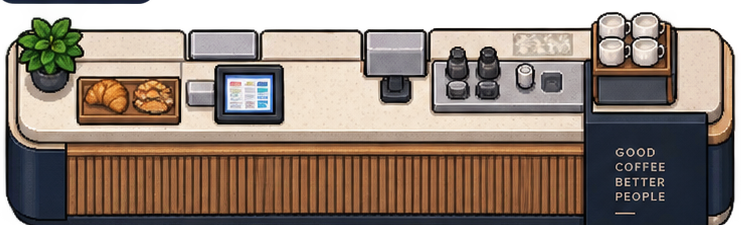
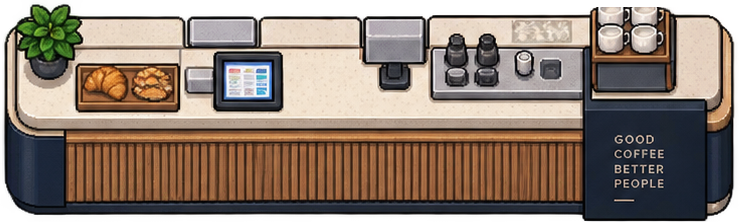
fix: remove first-floor v4 crop artifacts

diff --git a/.superpowers/sdd/2026-09-14-first-floor-asset-layout/task-2-report.md b/.superpowers/sdd/2026-09-14-first-floor-asset-layout/task-2-report.md
@@ -40,3 +40,36 @@ final hash is included in the task handoff).
 The v4 sprites are registered and ready for use, but no first-floor scene or
 placement code was changed by scope; a subsequent task must choose scale,
 anchor, and placement for these sprites.
+
+## Fix round 1: source-label crop cleanup
+
+### Root cause and correction
+
+The confirmed fragments were detached remnants of the category labels in the
+original source sheets. The elevator crop included the lower edge of the
+elevator label, the counter crop included the lower edge of its category label,
+and the entrance planter crop included both its category label and the label
+below the pot.
+
+The three PNGs were regenerated non-destructively from the original sheets
+with tighter bounds. The elevator's intended call indicator and the counter's
+plant top were composited back from their adjacent source pixels, so the
+cleanup does not discard intended artwork. The planter is limited to its plant
+and pot. Manifest paths, source sheets, dimensions used by layout code, and
+all scene code remain unchanged.
+
+### Visual and test verification
+
+- Directly inspected the three corrected PNGs at native resolution.
+- Regenerated the Task 3 renderer-level composition at
+  `build/first_floor_cleanup_composition.png` using
+  `FIRST_FLOOR_PREVIEW`; it shows the repaired elevators, cafe counter, and
+  planter instances without the reported label fragments.
+- Ran
+  `flutter_tools.dart test test/iso_lobby_scene_test.dart test/first_floor_asset_manifest_test.dart --no-pub --reporter expanded`.
+  Result: `00:00 +5: All tests passed!`
+
+### Commit
+
+`fix: remove first-floor v4 crop artifacts` (final hash is included in the
+task handoff).
